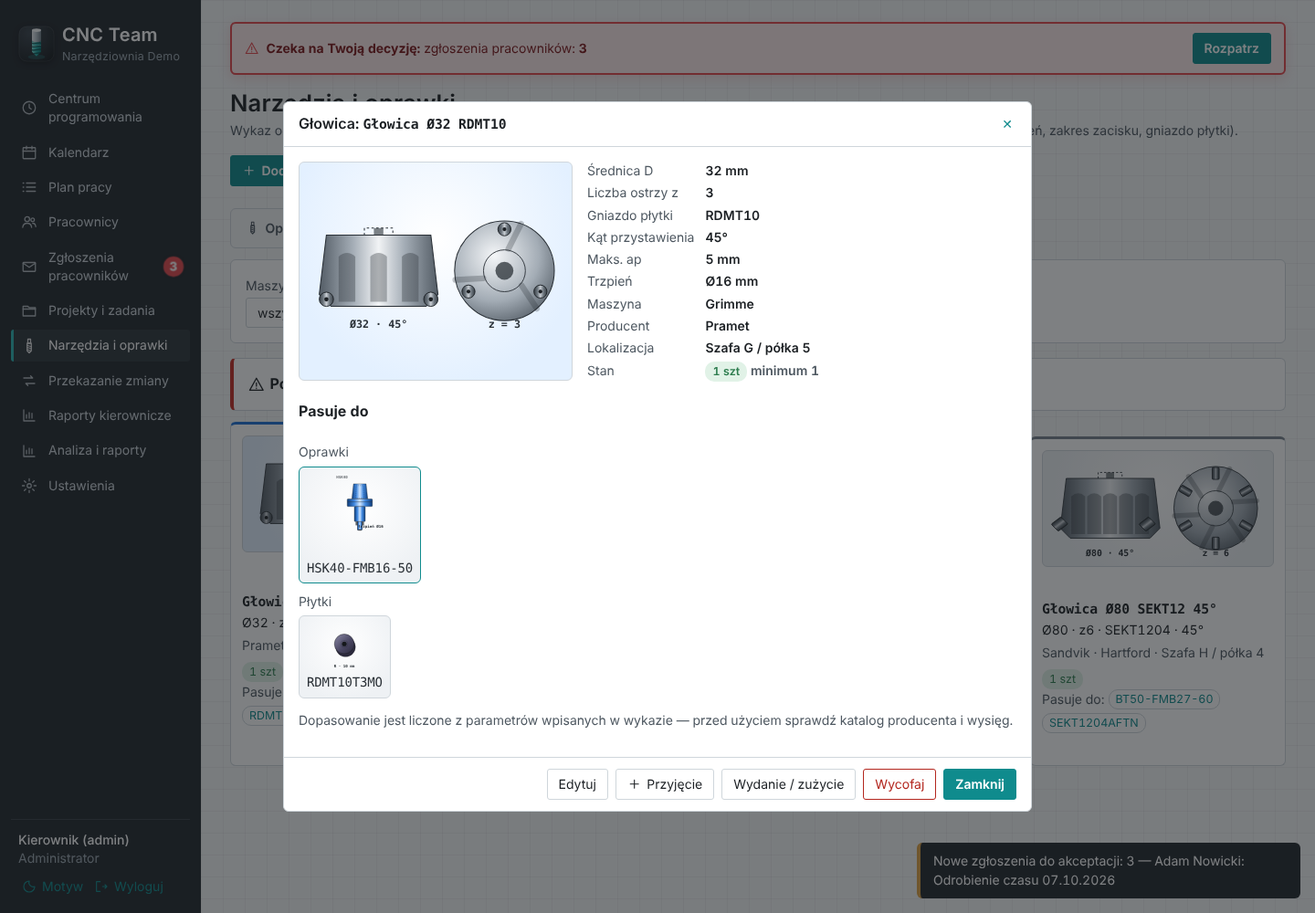
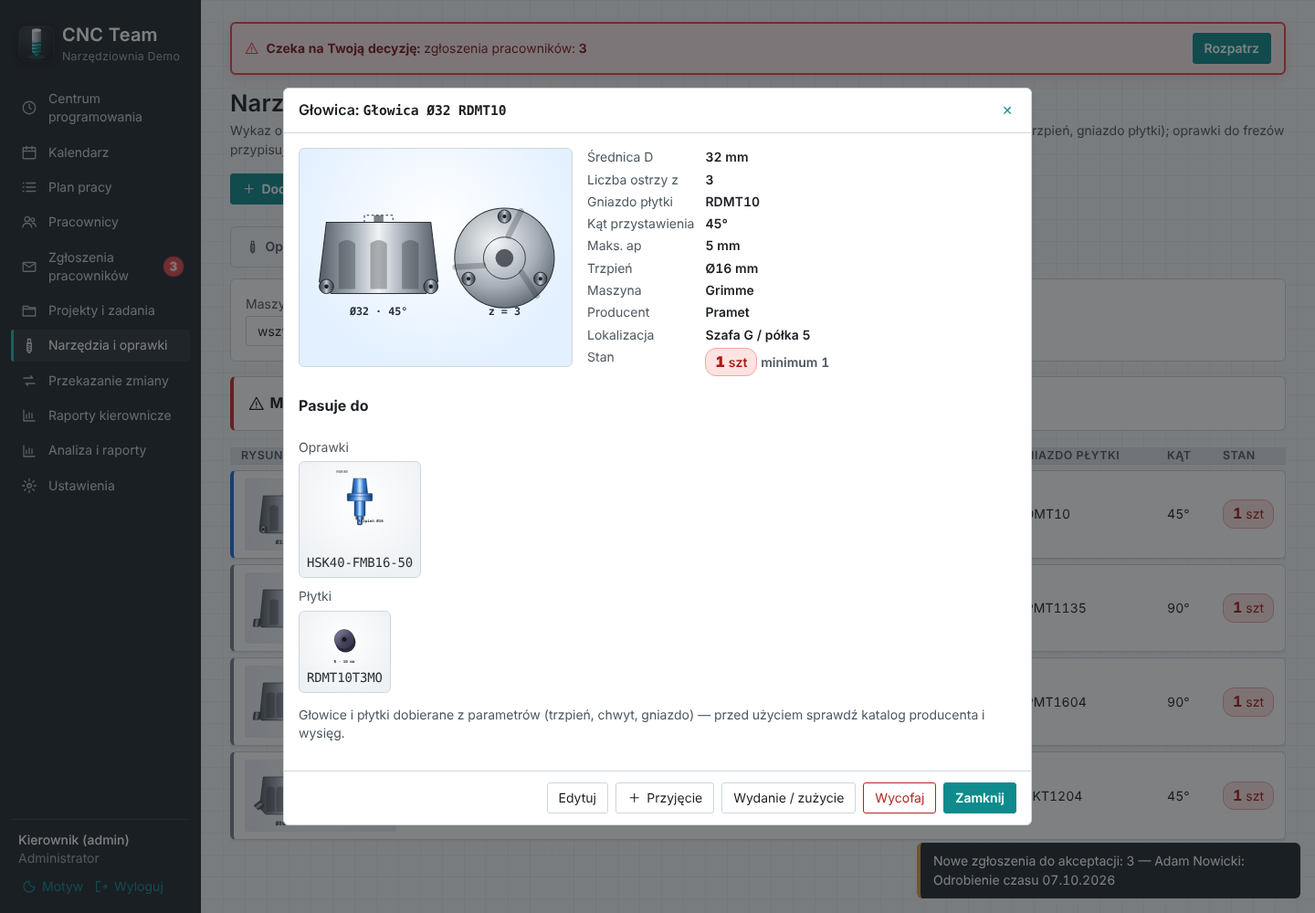
Narzędzia: widok katalogowy (wiersz = narzędzie, rysunek z wymiarami, stan na końcu; 1 szt czerwony, 2 szt żółty) (0.16.0)
Claude-Session: https://claude.ai/code/session_01Mgo9RDb6yKEqWF3PSmGbbJ

diff --git a/public/views-tools.js b/public/views-tools.js
@@ -187,7 +187,7 @@ function drawInsert(t, { w = 120 } = {}) {
 }
 
 // Frez / wiertło — chwyt, część robocza ze spiralą, zakończenie wg rodzaju
-function drawMill(t, { w = 80 } = {}) {
+function drawMill(t, { w = 80, horizontal = false } = {}) {
   const p = t.params || {}; const id = `tg${++toolUid}`;
   const D = Number(p.D) || 10, sh = Number(p.shank) || D;
   const k = 40 / Math.max(D, sh);
@@ -234,11 +234,29 @@ function drawMill(t, { w = 80 } = {}) {
   if (p.Lc) dims.push(dim(68, yCut, yTip, `Lc ${mm(p.Lc)}`));
   if (neck) dims.push(dim(68 + (p.Lc ? 14 : 0), yNeck, yTip, `l1 ${mm(p.reach)}`));
   if (p.L) dims.push(dim(68 + (p.Lc ? 14 : 0) + (neck ? 14 : 0), yShank, yTip, `L ${mm(p.L)}`));
+  const label = `${THREADED(p.type) ? `${esc(p.thread || `Ø${mm(D)}`)}${p.pitch ? ` P${esc(mm(p.pitch))}` : ''}` : `Ø${esc(mm(D))}`}${p.z && !THREADED(p.type) ? ` z${esc(mm(p.z))}` : ''}${p.type === 'torusowy' && p.r ? ` R${esc(mm(p.r))}` : p.type === 'kulisty' ? ` R${esc(mm(D / 2))}` : ''}`;
+  const aria = esc(`${MILL_LABEL[p.type] || 'Frez'}${p.thread ? ` ${p.thread}` : ''}${p.pitch ? ` skok ${mm(p.pitch)}` : ''} Ø${mm(D)}${p.z && p.type !== 'gwintownik' ? ` z${mm(p.z)}` : ''}${p.Lc ? `, ostrze ${mm(p.Lc)} mm` : ''}${p.reach ? `, użyteczna ${mm(p.reach)} mm` : ''}${p.L ? `, długość ${mm(p.L)} mm` : ''}`);
+  if (horizontal) {
+    // widok katalogowy: narzędzie leży poziomo (chwyt z lewej, ostrze z prawej), wymiary Lc / l1 / L pod spodem
+    const hdim = (Y, x1, x2, txt) => `<g class="tool-svg-dimline"><path d="M${x1} ${Y - 3} v6 M${x2} ${Y - 3} v6 M${x1} ${Y} H${x2}" stroke="#2a3036" stroke-width=".7" fill="none"/>
+      <text x="${(x1 + x2) / 2}" y="${Y - 2}" text-anchor="middle" class="tool-svg-dim tool-svg-dim-h">${esc(txt)}</text></g>`;
+    const hd = [];
+    let Y = 78;
+    if (p.Lc) { hd.push(hdim(Y, yCut, yTip, `Lc ${mm(p.Lc)}`)); Y += 13; }
+    if (neck) { hd.push(hdim(Y, yNeck, yTip, `l1 ${mm(p.reach)}`)); Y += 13; }
+    if (p.L) { hd.push(hdim(Y, yShank, yTip, `L ${mm(p.L)}`)); Y += 13; }
+    const vh = Math.max(66, Y - 4);
+    return `<svg class="tool-svg tool-svg-h" viewBox="0 0 204 ${vh}" width="${w}" role="img" aria-label="${aria}">
+    <defs>${metalDefs(`${id}s`, shankTone)}${metalDefs(`${id}k`, coatTone(p.coating))}</defs>
+    <g transform="translate(0 80) rotate(-90)">${parts.join('')}</g>${hd.join('')}
+    <text x="200" y="13" text-anchor="end" class="tool-svg-dim tool-svg-dim-h">${label}</text>
+  </svg>`;
+  }
   const vw = 80 + (p.Lc ? 14 : 0) + (neck ? 14 : 0) + (p.L ? 14 : 0);
-  return `<svg class="tool-svg" viewBox="0 0 ${vw} 214" width="${Math.round(w * vw / 80)}" role="img" aria-label="${esc(`${MILL_LABEL[p.type] || 'Frez'}${p.thread ? ` ${p.thread}` : ''}${p.pitch ? ` skok ${mm(p.pitch)}` : ''} Ø${mm(D)}${p.z && p.type !== 'gwintownik' ? ` z${mm(p.z)}` : ''}${p.Lc ? `, ostrze ${mm(p.Lc)} mm` : ''}${p.L ? `, długość ${mm(p.L)} mm` : ''}`)}">
+  return `<svg class="tool-svg" viewBox="0 0 ${vw} 214" width="${Math.round(w * vw / 80)}" role="img" aria-label="${aria}">
     <defs>${metalDefs(`${id}s`, shankTone)}${metalDefs(`${id}k`, coatTone(p.coating))}</defs>
     ${parts.join('')}${dims.join('')}
-    <text x="40" y="211" text-anchor="middle" class="tool-svg-dim">${THREADED(p.type) ? `${esc(p.thread || `Ø${mm(D)}`)}${p.pitch ? ` P${esc(mm(p.pitch))}` : ''}` : `Ø${esc(mm(D))}`}${p.z && !THREADED(p.type) ? ` z${esc(mm(p.z))}` : ''}${p.type === 'torusowy' && p.r ? ` R${esc(mm(p.r))}` : p.type === 'kulisty' ? ` R${esc(mm(D / 2))}` : ''}</text>
+    <text x="40" y="211" text-anchor="middle" class="tool-svg-dim">${label}</text>
   </svg>`;
 }
 
@@ -279,9 +297,10 @@ function machineShort(id) {
   const m = S.boot.machines.find(x => x.id === id);
   return m ? m.name : 'uniwersalne';
 }
+// stan: 0–1 szt — czerwony, 2 szt — żółty (mało, zwrócić uwagę); poniżej ustawionego minimum — dopisek
+const stockLevel = (q) => (q <= 1 ? 'red' : q === 2 ? 'yellow' : 'ok');
 function stockTag(t) {
-  if (t.low) return tag(`${t.qty} szt · min. ${t.min_qty}`, 'err', 'alert');
-  return tag(`${t.qty} szt`, t.qty ? 'ok' : '');
+  return `<span class="st st-${stockLevel(t.qty)}" title="${t.qty <= 1 ? 'Bardzo mało na stanie' : t.qty === 2 ? 'Mało na stanie' : 'Stan'}"><b>${t.qty}</b> szt</span>${t.low ? ` <span class="small st-min">min. ${t.min_qty}</span>` : ''}`;
 }
 
 // ---------- Widok ----------
@@ -298,7 +317,7 @@ VIEWS.narzedzia = async (main) => {
     && (!text || [t.name, t.code, t.manufacturer, t.catalog_no, t.location, toolKeyLine(t)].filter(Boolean).join(' ').toLowerCase().includes(text));
   const counts = Object.fromEntries(TOOL_TABS.map(([k]) => [k, list.filter(t => t.kind === k && match(t)).length]));
   const items = list.filter(t => t.kind === kind && match(t));
-  const low = list.filter(t => t.low && t.active);
+  const low = list.filter(t => t.active && (t.qty <= 2 || t.low)).sort((a, b) => a.qty - b.qty);
   const link = (patch) => { const n = new URLSearchParams(q); for (const [k, v] of Object.entries(patch)) { if (v) n.set(k, v); else n.delete(k); } return `#/narzedzia?${n}`; };
 
   main.innerHTML = head('Narzędzia i oprawki',
@@ -312,8 +331,9 @@ VIEWS.narzedzia = async (main) => {
       ${admin ? `<label class="field inline"><input type="checkbox" name="wycofane" value="1" ${showAll ? 'checked' : ''}> pokaż wycofane</label>` : ''}
       <button class="primary">Filtruj</button>
     </form>
-    ${admin && low.length ? `<div class="panel tl-low">${icon('alert')} <b>Poniżej stanu minimalnego (${low.length}):</b> ${low.map(t => `<button type="button" class="link" data-tool="${t.id}">${esc(t.name)} (${t.qty}/${t.min_qty})</button>`).join(', ')}</div>` : ''}
-    <div class="tl-grid">${items.map(t => toolCard(t)).join('') || `<div class="empty">${list.some(t => t.kind === kind) ? 'Nic nie pasuje do filtra.' : admin ? `Brak pozycji. Dodaj pierwszą przyciskiem „Dodaj”.` : 'Kierownik nie wpisał jeszcze narzędzi tego rodzaju.'}</div>`}</div>`;
+    ${low.length ? `<details class="panel tl-low"><summary>${icon('alert')} <b>Mało na stanie:</b> ${[['red', '0–1 szt', low.filter(t => t.qty <= 1).length], ['yellow', '2 szt', low.filter(t => t.qty === 2).length], ['min', 'poniżej minimum', low.filter(t => t.qty > 2).length]].filter(x => x[2]).map(([c, l, n]) => `<span class="st st-${c}"><b>${n}</b> ${l}</span>`).join(' ')} <span class="small muted">— pokaż listę</span></summary>
+      <div class="tl-low-list">${low.map(t => `<button type="button" class="link" data-tool="${t.id}">${esc(t.name)} <span class="st st-${stockLevel(t.qty)}"><b>${t.qty}</b></span></button>`).join(' ')}</div></details>` : ''}
+    <div class="tl-cat-wrap">${items.length ? toolCatalog(kind, items) : `<div class="empty">${list.some(t => t.kind === kind) ? 'Nic nie pasuje do filtra.' : admin ? `Brak pozycji. Dodaj pierwszą przyciskiem „Dodaj”.` : 'Kierownik nie wpisał jeszcze narzędzi tego rodzaju.'}</div>`}</div>`;
 
   $('#tlf').onsubmit = (e) => {
     e.preventDefault();
@@ -321,23 +341,34 @@ VIEWS.narzedzia = async (main) => {
     location.hash = link({ maszyna: fd.get('maszyna'), szukaj: (fd.get('szukaj') || '').trim(), wycofane: fd.get('wycofane') });
   };
   on('addTool', () => toolForm(kind, null, list));
-  $$('[data-tool]', main).forEach(el => el.addEventListener('click', (e) => { e.preventDefault(); const t = byId.get(Number(el.dataset.tool)); if (t) toolDetail(t, byId); }));
-  $$('.tl-card', main).forEach(el => el.addEventListener('keydown', (e) => { if (e.key === 'Enter' && e.target === el) toolDetail(byId.get(Number(el.dataset.id)), byId); }));
+  $$('[data-tool]', main).forEach(el => el.addEventListener('click', (e) => { e.preventDefault(); e.stopPropagation(); const t = byId.get(Number(el.dataset.tool)); if (t) toolDetail(t, byId); }));
+  // cały wiersz klikalny myszą/palcem; z klawiatury — przycisk z nazwą (czytniki ekranu ogłaszają go jako przycisk)
+  $$('tr[data-row]', main).forEach(el => el.addEventListener('click', () => toolDetail(byId.get(Number(el.dataset.row)), byId)));
 };
 
-function toolCard(t) {
-  const theme = t.machine_id ? machineTheme(S.boot.machines.find(m => m.id === t.machine_id)) : '';
-  const fits = t.fits || [];
-  return `<article class="tl-card panel k-${t.kind} ${theme ? `theme-${theme}` : 'tl-neutral'} ${t.active ? '' : 'tl-off'}" data-id="${t.id}" tabindex="0">
-    <button type="button" class="tl-pic" data-tool="${t.id}" aria-label="Szczegóły: ${esc(t.name)}">${drawTool(t)}</button>
-    <div class="tl-body">
-      <header><b class="mono">${esc(t.name)}</b>${t.code ? ` <span class="small muted">nr ${esc(t.code)}</span>` : ''}</header>
-      <p class="small">${esc(toolKeyLine(t))}</p>
-      <p class="small muted">${[t.manufacturer, t.machine_id ? machineShort(t.machine_id) : 'uniwersalne', t.location].filter(Boolean).map(esc).join(' · ')}</p>
-      <div class="tl-stock">${stockTag(t)}${t.active ? '' : ` ${tag('wycofane', '', 'block')}`}</div>
-      ${fits.length ? `<div class="small tl-fits"><span class="muted">${t.kind === 'frez' ? 'Oprawki:' : 'Pasuje do:'}</span> ${fits.slice(0, 4).map(f => `<button type="button" class="link" data-tool="${f.id}">${esc(f.name)}</button>`).join('')}${fits.length > 4 ? `<button type="button" class="link" data-tool="${t.id}">+${fits.length - 4} więcej</button>` : ''}</div>` : ''}
-    </div>
-  </article>`;
+// Widok katalogowy: jedno narzędzie w wierszu — rysunek, najważniejsze dane, na końcu stan; reszta parametrów po kliknięciu
+const CATALOG_COLS = {
+  oprawka: [['Interfejs', p => p.interface], ['Rodzaj', p => HOLDER_LABEL[p.type] || p.type],
+    ['Zacisk / trzpień', p => (p.type === 'trzpieniowa' ? `trzpień Ø${mm(p.arbor)}` : p.clamp_min != null ? `Ø${mm(p.clamp_min)}${p.clamp_max && p.clamp_max !== p.clamp_min ? `–${mm(p.clamp_max)}` : ''}` : '')],
+    ['Wysięg', p => (p.gauge ? `${mm(p.gauge)} mm` : '')]],
+  glowica: [['Średnica', p => `Ø${mm(p.D)}`], ['Ostrza', p => mm(p.z)], ['Gniazdo płytki', p => p.insert_code || ''], ['Kąt', p => (p.lead ? `${mm(p.lead)}°` : '')]],
+  plytka: [['Kształt', p => p.shape || ''], ['Wielkość', p => `${mm(p.size)} mm${p.radius ? ` · r${mm(p.radius)}` : ''}`], ['Gatunek', p => p.grade || ''], ['Pokrycie', p => p.coating || '']],
+  frez: [['Średnica', p => (THREADED(p.type) && p.thread ? `${p.thread} · Ø${mm(p.D)}` : `Ø${mm(p.D)}`)],
+    ['Ostrza', p => (p.type === 'gwintownik' ? `skok ${mm(p.pitch)}` : `${mm(p.z)}${p.type === 'frez-gwintowy' && p.pitch ? ` · skok ${mm(p.pitch)}` : ''}`)],
+    ['Materiał', p => [p.material, p.coating].filter(Boolean).join(' · ')]],
+};
+function toolCatalog(kind, items) {
+  const cols = CATALOG_COLS[kind];
+  const picW = kind === 'frez' ? 260 : kind === 'glowica' ? 150 : kind === 'oprawka' ? 56 : 70;
+  return `<table class="tl-table k-${kind}"><thead><tr><th class="tl-c-pic">Rysunek</th><th>Nazwa</th>${cols.map(([l]) => `<th>${esc(l)}</th>`).join('')}<th class="tl-c-st">Stan</th></tr></thead>
+    <tbody>${items.map(t => {
+      const theme = t.machine_id ? machineTheme(S.boot.machines.find(m => m.id === t.machine_id)) : '';
+      return `<tr data-row="${t.id}" class="${theme ? `theme-${theme}` : 'tl-neutral'} ${t.active ? '' : 'tl-off'}">
+        <td class="tl-c-pic"><div class="tl-pic-row">${drawTool(t, { w: picW, horizontal: true })}</div></td>
+        <td class="tl-c-name" data-l="Nazwa"><button type="button" class="link tl-open mono" data-tool="${t.id}">${esc(t.name)}</button><span class="small muted">${[t.machine_id ? machineShort(t.machine_id) : 'uniwersalne', t.location, t.active ? '' : 'wycofane'].filter(Boolean).map(esc).join(' · ')}</span></td>
+        ${cols.map(([l, f]) => `<td data-l="${esc(l)}">${esc(f(t.params || {}) || '—')}</td>`).join('')}
+        <td class="tl-c-st" data-l="Stan">${stockTag(t)}</td></tr>`;
+    }).join('')}</tbody></table>`;
 }
 
 function toolDetail(t, byId) {
@@ -345,12 +376,12 @@ function toolDetail(t, byId) {
   const dlg = document.createElement('dialog');
   dlg.className = 'tl-dialog';
   const theme = t.machine_id ? machineTheme(S.boot.machines.find(m => m.id === t.machine_id)) : '';
-  const big = t.kind === 'glowica' ? { w: 360 } : t.kind === 'oprawka' ? { w: 200 } : t.kind === 'frez' ? { w: 130 } : { w: 220 };
+  const big = t.kind === 'glowica' ? { w: 360 } : t.kind === 'oprawka' ? { w: 200 } : t.kind === 'frez' ? { w: 420, horizontal: true } : { w: 220 };
   const fits = (t.fits || []).map(f => byId.get(f.id) || f);
   const groups = TOOL_TABS.map(([k, l]) => [l, fits.filter(f => f.kind === k)]).filter(([, a]) => a.length);
   dlg.innerHTML = `<form method="dialog"><header><h3>${esc(TOOL_KIND[t.kind].single)}: <span class="mono">${esc(t.name)}</span></h3><button type="button" class="link" data-close aria-label="Zamknij">✕</button></header>
     <div class="content">
-      <div class="tl-detail ${theme ? `theme-${theme}` : 'tl-neutral'}">
+      <div class="tl-detail k-${t.kind} ${theme ? `theme-${theme}` : 'tl-neutral'}">
         <div class="tl-pic big">${drawTool(t, big)}</div>
         <div>
           <dl class="tl-facts">${toolFacts(t).map(([l, v]) => `<dt>${esc(l)}</dt><dd>${esc(v)}</dd>`).join('')}
@@ -363,15 +394,17 @@ function toolDetail(t, byId) {
         </div>
       </div>
       <h4>${t.kind === 'frez' ? 'Przypisane oprawki' : 'Pasuje do'}</h4>
-      ${groups.length ? groups.map(([l, a]) => `<div class="tl-fit-group"><span class="small muted">${esc(l)}</span><div class="tl-fit-row">${a.map(f => `<button type="button" class="tl-mini" data-open="${f.id}" title="${esc(f.name)}">${f.params ? drawTool(f, { w: f.kind === 'glowica' ? 120 : f.kind === 'frez' ? 34 : 56 }) : ''}<span class="small mono">${esc(f.name)}</span></button>`).join('')}</div></div>`).join('')
+      ${groups.length ? groups.map(([l, a]) => `<div class="tl-fit-group"><span class="small muted">${esc(l)}</span><div class="tl-fit-row">${a.map(f => `<button type="button" class="tl-mini" data-open="${f.id}" title="${esc(f.name)}">${f.params ? drawTool(f, { w: f.kind === 'glowica' ? 120 : f.kind === 'frez' ? 140 : 56, horizontal: true }) : ''}<span class="small mono">${esc(f.name)}</span></button>`).join('')}</div></div>`).join('')
         : `<p class="small muted">${t.kind === 'plytka' ? 'Żadna głowica w wykazie nie ma gniazda pasującego do tej płytki.' : t.kind === 'frez' ? 'Nie przypisano oprawek — przypisuje kierownik w edycji frezu.' : 'Brak dopasowań w wykazie.'}</p>`}
       <p class="small muted">${t.kind === 'frez' ? 'Oprawki do frezu są przypisane ręcznie.' : t.kind === 'plytka' ? 'Dopasowanie liczone z gniazda głowicy.' : `Głowice i płytki dobierane z parametrów (trzpień, chwyt, gniazdo)${t.kind === 'oprawka' ? '; frezy — przypisane ręcznie' : ''} — przed użyciem sprawdź katalog producenta i wysięg.`}</p>
     </div>
     <footer>${admin ? `<button type="button" data-act="edit">Edytuj</button><button type="button" data-act="in">${icon('plus')}Przyjęcie</button><button type="button" data-act="out">Wydanie / zużycie</button>${t.active ? '<button type="button" class="danger" data-act="off">Wycofaj</button>' : '<button type="button" data-act="on">Przywróć</button>'}` : ''}<button type="button" class="primary" data-close>Zamknij</button></footer></form>`;
   document.body.appendChild(dlg);
-  const close = () => { dlg.close(); dlg.remove(); };
+  const back = document.activeElement;
+  const restore = () => { if (back && back.isConnected && back.focus) back.focus(); };
+  const close = () => { dlg.close(); dlg.remove(); restore(); };
   $$('[data-close]', dlg).forEach(b => b.addEventListener('click', close));
-  dlg.addEventListener('cancel', () => dlg.remove());
+  dlg.addEventListener('cancel', () => { dlg.remove(); restore(); });
   $$('[data-open]', dlg).forEach(b => b.addEventListener('click', () => { const n = byId.get(Number(b.dataset.open)); if (n) { close(); toolDetail(n, byId); } }));
   const act = (name, fn) => { const b = $(`[data-act="${name}"]`, dlg); if (b) b.addEventListener('click', () => { close(); fn(); }); };
   act('edit', () => toolForm(t.kind, t, [...byId.values()]));

diff --git a/public/app.css b/public/app.css
@@ -617,3 +617,66 @@ figure.chart3d { max-width: none; } figure.chart3d .chart-box svg { max-height: 
 @media (prefers-color-scheme: dark) { :root:not([data-theme="light"]) .tl-pic, :root:not([data-theme="light"]) .tl-mini, :root:not([data-theme="light"]) .tl-preview { background: radial-gradient(circle at 50% 35%, #ffffff, #c9d0d7 85%); color: #2a3036; } }
 .tl-preview { flex-direction: row; justify-content: center; gap: var(--sp-3); }
 .tl-preview svg { max-height: 150px; }
+
+/* ---- Narzędzia: widok katalogowy (wiersz = narzędzie) ---- */
+.tl-cat-wrap { overflow-x: auto; }
+.tl-table { width: 100%; border-collapse: separate; border-spacing: 0 6px; font-size: var(--fs-sm); }
+.tl-table thead th { text-align: left; font-weight: 600; color: var(--c-ink-soft); font-size: var(--fs-xs); text-transform: uppercase; letter-spacing: .04em; padding: 0 var(--sp-3); }
+.tl-table tbody tr { background: var(--c-surface); cursor: pointer; box-shadow: 0 1px 2px rgba(0,0,0,.08); }
+.tl-table tbody tr:hover, .tl-table tbody tr:focus-visible { box-shadow: 0 0 0 2px var(--m-mid, var(--c-accent)); outline: none; }
+.tl-table tbody td { padding: var(--sp-2) var(--sp-3); vertical-align: middle; border-top: 1px solid var(--c-line); border-bottom: 1px solid var(--c-line); }
+.tl-table tbody td:first-child { border-left: 4px solid var(--m-mid, #8a949e); border-radius: var(--r-md) 0 0 var(--r-md); }
+.tl-table tbody td:last-child { border-right: 1px solid var(--c-line); border-radius: 0 var(--r-md) var(--r-md) 0; }
+.tl-table tr.tl-off { opacity: .55; }
+.tl-c-pic { width: 1%; }
+.tl-pic-row { display: flex; align-items: center; justify-content: center; padding: 4px 8px; border-radius: var(--r-sm); background: radial-gradient(circle at 50% 40%, #ffffff, #e9edf1 90%); color: #2a3036; }
+.tl-table.k-frez .tl-pic-row { min-width: 270px; }
+.tl-pic-row svg.tool-svg { height: auto; max-height: 96px; display: block; }
+.tl-table.k-oprawka .tl-pic-row svg { max-height: 92px; }
+.tl-c-name b { display: block; font-size: var(--fs-md); }
+.tl-c-name span { display: block; }
+.tl-c-st { text-align: right; white-space: nowrap; width: 1%; }
+.st { display: inline-flex; align-items: baseline; gap: 4px; padding: 3px 10px; border-radius: 12px; font-size: var(--fs-sm); background: #e5f4ea; color: #1d6b3a; border: 1px solid #b8e0c6; }
+.st b { font-size: 1.15em; }
+.st.st-red { background: #fde3e1; color: #a51d14; border-color: #f2a59f; }
+.st.st-yellow { background: #fff3c4; color: #7a5a00; border-color: #f0d36b; }
+.st-min { color: #a51d14; }
+.tl-low .st { padding: 0 7px; margin-left: 2px; }
+.tl-low button.link { padding: 2px 6px; }
+:root[data-theme="dark"] .st { background: #173524; color: #9fe0b6; border-color: #2c5a3e; }
+:root[data-theme="dark"] .st.st-red { background: #3d1714; color: #ffb4ad; border-color: #7a2a24; }
+:root[data-theme="dark"] .st.st-yellow { background: #3a2f0b; color: #ffe08a; border-color: #6e5714; }
+@media (prefers-color-scheme: dark) {
+  :root:not([data-theme="light"]) .st { background: #173524; color: #9fe0b6; border-color: #2c5a3e; }
+  :root:not([data-theme="light"]) .st.st-red { background: #3d1714; color: #ffb4ad; border-color: #7a2a24; }
+  :root:not([data-theme="light"]) .st.st-yellow { background: #3a2f0b; color: #ffe08a; border-color: #6e5714; }
+}
+.tl-detail.k-frez { grid-template-columns: 1fr; }
+.tl-detail.k-frez .tl-pic.big { min-height: 0; }
+.tl-detail.k-frez .tl-pic.big svg.tool-svg { width: 100%; max-height: 220px; }
+.tl-mini svg.tool-svg-h { max-height: 60px; }
+/* telefon: wiersz katalogu jako karta — rysunek na górze, dane w dwóch kolumnach, stan na końcu */
+@media (max-width: 760px) {
+  .tl-table, .tl-table tbody, .tl-table tr, .tl-table td { display: block; }
+  .tl-table thead { display: none; }
+  .tl-table tbody tr { display: grid; grid-template-columns: 1fr 1fr; border-radius: var(--r-md); border-left: 4px solid var(--m-mid, #8a949e); margin-bottom: var(--sp-2); }
+  .tl-table tbody td, .tl-table tbody td:first-child, .tl-table tbody td:last-child { border: 0; border-radius: 0; }
+  .tl-table td.tl-c-pic, .tl-table td.tl-c-name { grid-column: 1 / -1; width: auto; }
+  .tl-table.k-frez .tl-pic-row { min-width: 0; }
+  .tl-table td[data-l]:not(.tl-c-name)::before { content: attr(data-l); display: block; font-size: var(--fs-xs); color: var(--c-ink-soft); }
+  .tl-table td.tl-c-st { grid-column: 1 / -1; text-align: left; width: auto; border-top: 1px solid var(--c-line); }
+}
+details.tl-low { display: block; }
+details.tl-low summary { cursor: pointer; display: flex; flex-wrap: wrap; gap: 6px; align-items: center; list-style: none; }
+details.tl-low summary::-webkit-details-marker { display: none; }
+.tl-low-list { display: flex; flex-wrap: wrap; gap: 4px 10px; margin-top: var(--sp-2); }
+.st.st-min { background: transparent; color: #a51d14; border-color: #f2a59f; }
+.tl-c-name .tl-open { display: block; font-size: var(--fs-md); font-weight: 700; color: var(--c-ink); text-align: left; padding: 0; }
+.tl-c-name .tl-open:hover { color: var(--c-accent); }
+:root[data-theme="dark"] .st.st-min { background: transparent; color: #ffb4ad; border-color: #7a2a24; }
+:root[data-theme="dark"] .st-min { color: #ffb4ad; }
+@media (prefers-color-scheme: dark) {
+  :root:not([data-theme="light"]) .st.st-min { background: transparent; color: #ffb4ad; border-color: #7a2a24; }
+  :root:not([data-theme="light"]) .st-min { color: #ffb4ad; }
+}
+.tool-svg-dim-h { font-size: 11px; }

diff --git a/public/sw.js b/public/sw.js
@@ -2,7 +2,7 @@
 // Zasada prywatności: w pamięci telefonu przechowywany jest WYŁĄCZNIE szkielet aplikacji (HTML/CSS/JS/ikony).
 // Odpowiedzi API (/api/*) — dane osobowe, absencje, rozliczenia — nigdy nie są buforowane.
 'use strict';
-const VERSION = 'cnc-team-shell-v27';
+const VERSION = 'cnc-team-shell-v28';
 const SHELL = [
   '/', '/index.html', '/tokens.css', '/app.css', '/icons.js', '/brand.js', '/charts.js', '/ui.js', '/app.js', '/views-people.js', '/views-projects.js',
   '/views-reports.js', '/views-requests.js', '/views-analytics.js', '/views-bundles.js', '/views-tools.js', '/views-plan.js', '/pwa.js', '/manifest.webmanifest', '/favicon.svg', '/icons/icon-192.png', '/icons/icon-512.png',

diff --git a/scripts/screenshots-tools.py b/scripts/screenshots-tools.py
@@ -1,4 +1,4 @@
-"""Zrzuty: Narzędzia i oprawki (rundy 18–21). Użycie: python scripts/screenshots-tools.py http://127.0.0.1:3000 docs/screenshots — kod 1 przy błędach."""
+"""Zrzuty: Narzędzia i oprawki (rundy 18–22). Użycie: python scripts/screenshots-tools.py http://127.0.0.1:3000 docs/screenshots — kod 1 przy błędach."""
 import sys
 from playwright.sync_api import sync_playwright
 base, out = sys.argv[1], sys.argv[2]
@@ -20,7 +20,7 @@ with sync_playwright() as p:
     for k, n in [("oprawka", "110-narzedzia-oprawki"), ("glowica", "111-narzedzia-glowice"), ("plytka", "112-narzedzia-plytki"), ("frez", "113-narzedzia-frezy")]:
         shot(pg, n, f"#/narzedzia?rodzaj={k}")
     pg.goto(base + "/#/narzedzia?rodzaj=glowica"); pg.wait_for_timeout(500)
-    pg.click(".tl-card .tl-pic >> nth=0"); pg.wait_for_selector("dialog[open]"); shot(pg, "114-narzedzia-szczegoly", full=False)
+    pg.click("tr[data-row] >> nth=0"); pg.wait_for_selector("dialog[open]"); shot(pg, "114-narzedzia-szczegoly", full=False)
     pg.click("dialog[open] [data-act=edit]"); pg.wait_for_selector("dialog[open] .tl-preview svg"); shot(pg, "115-narzedzia-edycja", full=False)
     pg.fill("dialog[open] input[name=location]", "Szafa G / półka 5"); pg.fill("dialog[open] input[name=reason]", "przeniesiona"); pg.click("dialog[open] button[type=submit]"); pg.wait_for_timeout(800)
     if pg.locator("dialog[open]").count(): errors.append("edycja nie zapisała: " + pg.inner_text("dialog[open] .form-error"))
@@ -31,12 +31,12 @@ with sync_playwright() as p:
     pg.dispatch_event("dialog[open] form", "change"); pg.wait_for_timeout(200); shot(pg, "117-narzedzia-nowy-podglad", full=False)
     pg.click("dialog[open] button[type=submit]"); pg.wait_for_timeout(800)
     if pg.locator("dialog[open]").count(): errors.append("dodanie nie zapisało: " + pg.inner_text("dialog[open] .form-error"))
-    pg.goto(base + "/#/narzedzia?rodzaj=frez&szukaj=szyjka"); pg.wait_for_timeout(500); pg.click(".tl-card .tl-pic >> nth=0"); pg.wait_for_selector("dialog[open]"); shot(pg, "118-narzedzia-frez-wymiary", full=False)
+    pg.goto(base + "/#/narzedzia?rodzaj=frez&szukaj=szyjka"); pg.wait_for_timeout(500); pg.click("tr[data-row] >> nth=0"); pg.wait_for_selector("dialog[open]"); shot(pg, "118-narzedzia-frez-wymiary", full=False)
     pg.click("dialog[open] [data-act=edit]"); pg.wait_for_selector("dialog[open] .tl-preview svg"); shot(pg, "119-narzedzia-frez-formularz", full=False)
     pg.locator("dialog[open] [data-f=holder_ids]").scroll_into_view_if_needed(); pg.wait_for_timeout(200); shot(pg, "120-narzedzia-frez-oprawki", full=False)
     if pg.locator("dialog[open] input[name=holder_ids]").count() < 5: errors.append("brak listy oprawek w formularzu frezu")
     if pg.locator("dialog[open] input[name=holder_ids]:checked").count() != 1: errors.append("zaznaczone przypisanie nie wczytane")
-    pg.goto(base + "/#/narzedzia?rodzaj=frez&szukaj=gwint"); pg.reload(); pg.wait_for_selector(".tl-card"); pg.wait_for_timeout(400); shot(pg, "121-narzedzia-gwintowniki", full=False)
+    pg.goto(base + "/#/narzedzia?rodzaj=frez&szukaj=gwint"); pg.reload(); pg.wait_for_selector("tr[data-row]"); pg.wait_for_timeout(400); shot(pg, "121-narzedzia-gwintowniki", full=False)
     pg.click("#addTool"); pg.wait_for_selector("dialog[open]")
     pg.fill("dialog[open] input[name=name]", "Gwintownik M12"); pg.select_option("dialog[open] select[name=p_type]", "gwintownik"); pg.wait_for_timeout(150)
     if pg.locator("dialog[open] [data-f=p_z]").is_visible(): errors.append("gwintownik: pole liczby ostrzy widoczne")

diff --git a/docs/TESTS.md b/docs/TESTS.md
@@ -82,6 +82,9 @@ Zrzuty: `docs/screenshots/50…66` (kierownik, pracownik na komputerze i telefon
 ### Runda 21 — gwintowniki i frezy do gwintów (13.10.2026)
 **66 / 66 zaliczonych.** Uwaga kierownika: przy gwintowniku nie podaje się liczby ostrzy, potrzebny skok gwintu. Rozdzielone rodzaje: gwintownik (bez z) i frez do gwintów (z obowiązkowe); oba — skok gwintu P obowiązkowy (4 miejsca po przecinku dla gwintów calowych) i oznaczenie gwintu (np. M10x1). Migracja 014 przenosi dawne „gwintowniki” z liczbą ostrzy do frezów do gwintów. Rysunek: zwoje co skok, podpis „M8 P1,25”. Przegląd niezależny: 5 uwag, poprawione. Zrzuty `121`, `122`.
 
+### Runda 22 — widok katalogowy narzędzi (13.10.2026)
+**66 / 66 zaliczonych** (zmiana tylko w interfejsie). Wykaz jak katalog: jedno narzędzie w wierszu — rysunek (frez poziomo, z wymiarami Lc / l1 / L), nazwa, średnica, ostrza (przy gwintowniku skok), materiał, na końcu stan; pozostałe parametry po kliknięciu. Stan 0–1 szt czerwony, 2 szt żółty; zwijane podsumowanie „Mało na stanie”. Telefon: wiersz jako karta. Przegląd niezależny (z klikaniem w Playwright, tryb jasny/ciemny, 390 px): 3 uwagi + 2 drobne, poprawione (kolory w trybie ciemnym, nazwa jako przycisk dla klawiatury i czytnika ekranu, powrót fokusu po zamknięciu). Zrzuty `110`–`121`.
+
 ## Pokrycie wymaganych scenariuszy
 
 | Wymagany scenariusz | Test (plik → nazwa) |
